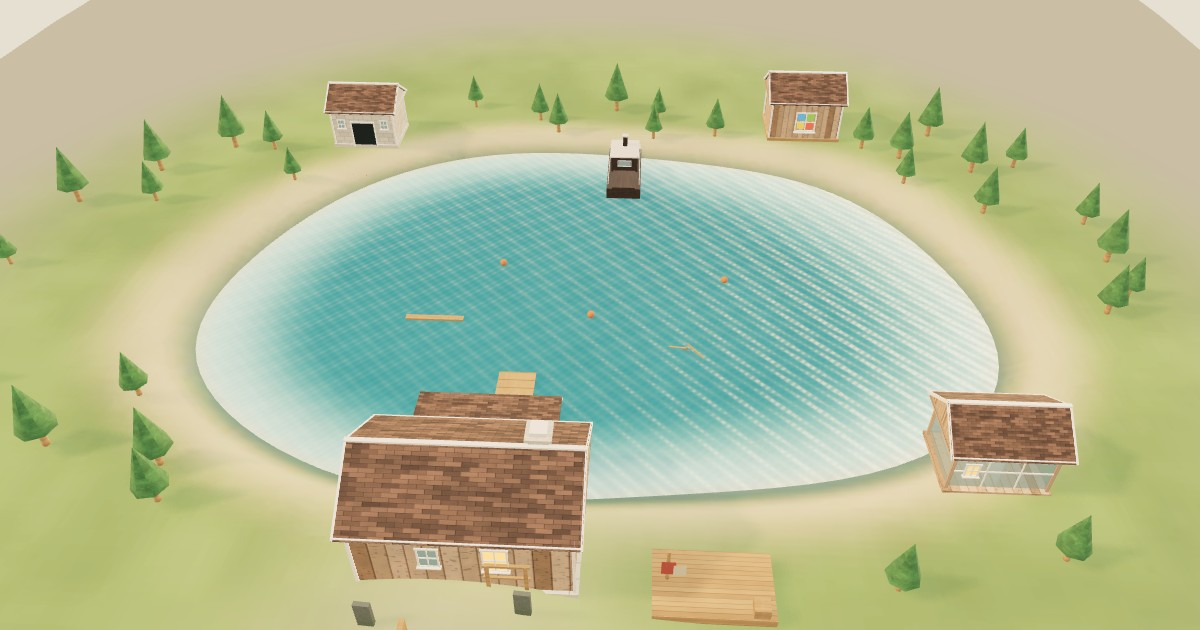
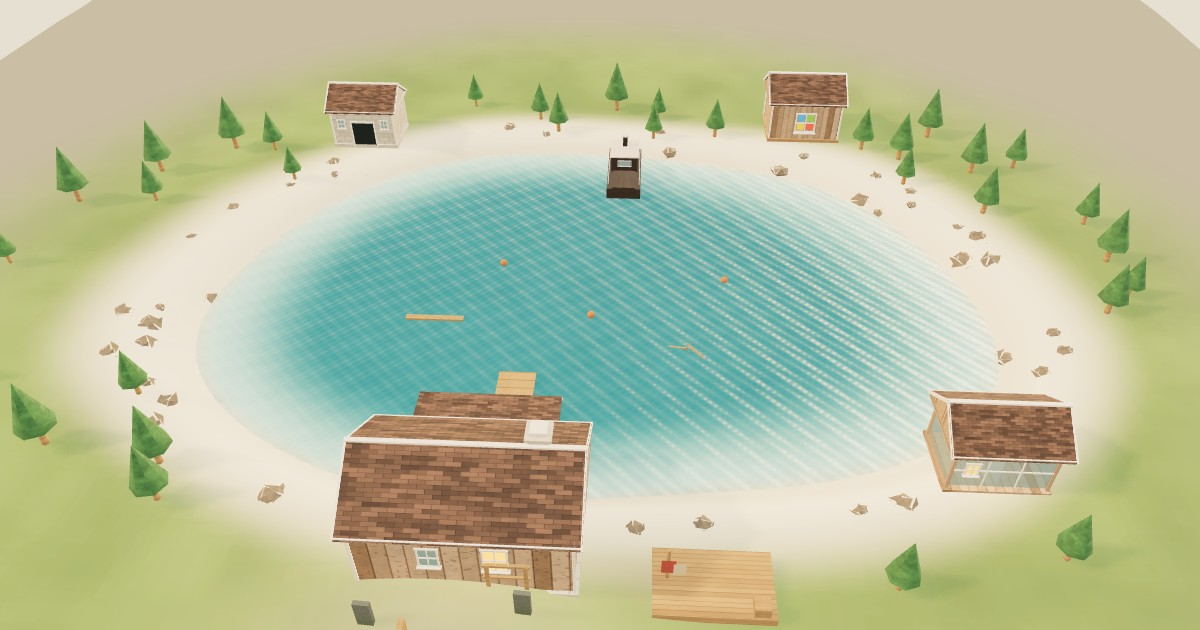
Roll the shore, sand the waterline, and soften the paths.
Keep the buildings where they are. Add a low roll to the ground, a sand band into the lake, clustered rocks along that edge, and a second gravel ribbon from the house to the stage.

Changed region(s): [[0.0308, 0.0905, 0.9558, 0.9349], [0.555, 0.9651, 0.6475, 0.9952]]

diff --git a/src/scene/shore.ts b/src/scene/shore.ts
@@ -2,8 +2,7 @@ import * as THREE from 'three'
 import type { Atlas } from './assets'
 import { surfaceMaterial } from './assets'
 import type { Disposal } from './disposal'
-import { fadeAtRim } from './edgeFade'
-import { lakeRadius, terrainHeight } from './ground'
+import { FOG, lakeRadius, smoothstep, terrainHeight } from './ground'
 import { distanceToPath } from './paths'
 
 const CLEARINGS: Array<[number, number, number]> = [
@@ -22,15 +21,76 @@ export function buildShore(parent: THREE.Object3D, disposal: Disposal, atlas: At
   for (let i = 0; i < position.count; i++) {
     position.setY(i, terrainHeight(position.getX(i), position.getZ(i)))
   }
+  const splat = new Float32Array(position.count * 3)
+  for (let i = 0; i < position.count; i++) {
+    const x = position.getX(i)
+    const z = position.getZ(i)
+    const radius = lakeRadius(x, z)
+    const sand = smoothstep(0.86, 0.98, radius) * (1 - smoothstep(1.1, 1.36, radius))
+    const dirt = smoothstep(1.35, 0.15, distanceToPath(x, z)) * (1 - sand)
+    splat[i * 3] = sand
+    splat[i * 3 + 1] = dirt
+  }
+  geometry.setAttribute('color', new THREE.BufferAttribute(splat, 3))
   geometry.computeVertexNormals()
 
   const material = surfaceMaterial(disposal, atlas.terrain, { roughness: 1, metalness: 0.02 })
-  fadeAtRim(material)
+  shadeGround(material)
   const mesh = new THREE.Mesh(geometry, material)
   mesh.receiveShadow = true
   parent.add(mesh)
   addPines(parent, disposal, atlas)
+  addRocks(parent, disposal, atlas)
   return mesh
+}
+
+const fogColor = new THREE.Color(FOG)
+
+function shadeGround(material: THREE.MeshStandardMaterial) {
+  material.onBeforeCompile = (shader) => {
+    shader.uniforms.uRimColor = { value: fogColor }
+    shader.uniforms.uRimStart = { value: 22 }
+    shader.uniforms.uRimEnd = { value: 33 }
+    shader.vertexShader = shader.vertexShader
+      .replace(
+        '#include <common>',
+        `#include <common>
+         attribute vec3 color;
+         varying vec3 vSplat;
+         varying vec3 vRimWorld;`,
+      )
+      .replace(
+        '#include <worldpos_vertex>',
+        `#include <worldpos_vertex>
+         vSplat = color;
+         vRimWorld = (modelMatrix * vec4(transformed, 1.0)).xyz;`,
+      )
+    shader.fragmentShader = shader.fragmentShader
+      .replace(
+        '#include <common>',
+        `#include <common>
+         varying vec3 vSplat;
+         varying vec3 vRimWorld;
+         uniform vec3 uRimColor;
+         uniform float uRimStart;
+         uniform float uRimEnd;`,
+      )
+      .replace(
+        '#include <color_fragment>',
+        `#include <color_fragment>
+         vec3 sandColor = vec3(0.92, 0.84, 0.64);
+         vec3 dirtColor = vec3(0.48, 0.38, 0.26);
+         diffuseColor.rgb = mix(diffuseColor.rgb, sandColor, vSplat.r * 0.94);
+         diffuseColor.rgb = mix(diffuseColor.rgb, dirtColor, vSplat.g * 0.55);`,
+      )
+      .replace(
+        '#include <fog_fragment>',
+        `float rim = smoothstep(uRimStart, uRimEnd, length(vRimWorld.xz));
+         gl_FragColor.rgb = mix(gl_FragColor.rgb, uRimColor, rim);
+         #include <fog_fragment>`,
+      )
+  }
+  material.customProgramCacheKey = () => 'ground-splat-rim'
 }
 
 function addPines(parent: THREE.Object3D, disposal: Disposal, atlas: Atlas) {
@@ -74,6 +134,82 @@ function addPines(parent: THREE.Object3D, disposal: Disposal, atlas: Atlas) {
     crowns.setMatrixAt(index, dummy.matrix)
   })
   parent.add(trunks, crowns)
+}
+
+const ROCK_KEEP: Array<[number, number, number]> = [
+  [-2.4, 13.2, 2.4],
+  [-2.2, 8.4, 1.8],
+  [4.8, 14.6, 2.2],
+  [14.4, 9.1, 2.6],
+  [-12.6, -13.4, 2.4],
+  [-12.6, -11.2, 1.5],
+  [1.5, -11.6, 2.2],
+  [11.2, -15.4, 2.6],
+  [-0.6, 16.2, 1.3],
+]
+
+function addRocks(parent: THREE.Object3D, disposal: Disposal, atlas: Atlas) {
+  const rand = mulberry32(91)
+  const spots: Array<{ x: number; z: number; scale: number; yaw: number; variant: number }> = []
+  let guard = 0
+  while (spots.length < 42 && guard < 7000) {
+    guard += 1
+    const x = (rand() * 2 - 1) * 22
+    const z = (rand() * 2 - 1) * 20
+    const radius = lakeRadius(x, z)
+    if (radius < 1.0 || radius > 1.18) continue
+    const cluster = Math.sin(x * 0.85 + 1.7) * Math.cos(z * 0.73 + 0.4)
+    if (cluster < 0.15) continue
+    if (ROCK_KEEP.some(([cx, cz, reach]) => Math.hypot(x - cx, z - cz) < reach)) continue
+    if (distanceToPath(x, z) < 1.15) continue
+    if (spots.some((spot) => Math.hypot(spot.x - x, spot.z - z) < 1.15)) continue
+    spots.push({
+      x,
+      z,
+      scale: 0.55 + rand() * 0.7,
+      yaw: rand() * Math.PI * 2,
+      variant: Math.floor(rand() * 3),
+    })
+  }
+
+  const stone = surfaceMaterial(disposal, atlas.limestone, {
+    color: '#a89e90',
+    roughness: 0.92,
+  })
+  const geometries = [0, 1, 2].map((variant) => rockGeometry(disposal, 40 + variant))
+  const dummy = new THREE.Object3D()
+  geometries.forEach((geometry, variant) => {
+    const group = spots.filter((spot) => spot.variant === variant)
+    if (group.length === 0) return
+    const mesh = new THREE.InstancedMesh(geometry, stone, group.length)
+    mesh.castShadow = true
+    mesh.receiveShadow = true
+    group.forEach((spot, index) => {
+      const y = terrainHeight(spot.x, spot.z) - spot.scale * 0.08
+      dummy.position.set(spot.x, y, spot.z)
+      dummy.rotation.set(rand() * 0.4, spot.yaw, rand() * 0.3)
+      dummy.scale.set(spot.scale, spot.scale * (0.55 + rand() * 0.35), spot.scale * (0.8 + rand() * 0.35))
+      dummy.updateMatrix()
+      mesh.setMatrixAt(index, dummy.matrix)
+    })
+    parent.add(mesh)
+  })
+}
+
+function rockGeometry(disposal: Disposal, seed: number) {
+  const geometry = disposal.geo(new THREE.IcosahedronGeometry(0.45, 0))
+  const position = geometry.attributes.position
+  const rand = mulberry32(seed)
+  for (let i = 0; i < position.count; i++) {
+    position.setXYZ(
+      i,
+      position.getX(i) * (0.7 + rand() * 0.55),
+      position.getY(i) * (0.45 + rand() * 0.35),
+      position.getZ(i) * (0.75 + rand() * 0.45),
+    )
+  }
+  geometry.computeVertexNormals()
+  return geometry
 }
 
 function mulberry32(seed: number) {

diff --git a/src/scene/paths.ts b/src/scene/paths.ts
@@ -4,19 +4,29 @@ import { surfaceMaterial } from './assets'
 import type { Disposal } from './disposal'
 import { terrainHeight } from './ground'
 
-const WAYPOINTS: Array<[number, number]> = [
-  [0.4, 12.2],
-  [3.6, 10.6],
-  [7.4, 9.2],
-  [11.2, 8.4],
-  [12.2, 9.0],
-  [14.2, 9.2],
+const ROUTES: Array<Array<[number, number]>> = [
+  [
+    [0.4, 12.2],
+    [3.6, 10.6],
+    [7.4, 9.2],
+    [11.2, 8.4],
+    [12.2, 9.0],
+    [14.2, 9.2],
+  ],
+  [
+    [-1.8, 13.05],
+    [0.6, 13.5],
+    [2.8, 14.15],
+    [4.7, 14.55],
+  ],
 ]
 
 export function distanceToPath(x: number, z: number) {
   let best = Infinity
-  for (let i = 0; i < WAYPOINTS.length - 1; i++) {
-    best = Math.min(best, segmentDistance(x, z, WAYPOINTS[i], WAYPOINTS[i + 1]))
+  for (const route of ROUTES) {
+    for (let i = 0; i < route.length - 1; i++) {
+      best = Math.min(best, segmentDistance(x, z, route[i], route[i + 1]))
+    }
   }
   return best
 }
@@ -32,10 +42,37 @@ function segmentDistance(x: number, z: number, a: [number, number], b: [number, 
 }
 
 export function buildPath(parent: THREE.Object3D, disposal: Disposal, atlas: Atlas) {
-  const points = WAYPOINTS.map(([x, z]) => new THREE.Vector3(x, terrainHeight(x, z) + 0.045, z))
+  const material = surfaceMaterial(disposal, atlas.gravel, {
+    roughness: 1,
+    metalness: 0.02,
+    normalScale: new THREE.Vector2(1.35, 1.35),
+  })
+  material.transparent = true
+  material.polygonOffset = true
+  material.polygonOffsetFactor = -1
+  material.polygonOffsetUnits = -1
+  material.onBeforeCompile = (shader) => {
+    shader.fragmentShader = shader.fragmentShader.replace(
+      '#include <alphamap_fragment>',
+      `#include <alphamap_fragment>
+       float across = abs(vMapUv.x - 0.5) * 2.0;
+       diffuseColor.a *= 1.0 - smoothstep(0.62, 1.0, across);`,
+    )
+  }
+  material.customProgramCacheKey = () => 'path-edge'
+
+  for (const route of ROUTES) {
+    const mesh = new THREE.Mesh(ribbon(disposal, route, route === ROUTES[0] ? 0.92 : 0.7), material)
+    mesh.receiveShadow = true
+    mesh.castShadow = false
+    parent.add(mesh)
+  }
+}
+
+function ribbon(disposal: Disposal, route: Array<[number, number]>, width: number) {
+  const points = route.map(([x, z]) => new THREE.Vector3(x, terrainHeight(x, z) + 0.045, z))
   const curve = new THREE.CatmullRomCurve3(points, false, 'centripetal', 0.5)
   const divisions = 48
-  const width = 0.92
   const positions: number[] = []
   const uvs: number[] = []
   const indices: number[] = []
@@ -56,7 +93,7 @@ export function buildPath(parent: THREE.Object3D, disposal: Disposal, atlas: Atl
     left.y = y
     right.y = y
     positions.push(left.x, left.y, left.z, right.x, right.y, right.z)
-    uvs.push(0, t * 10, 1, t * 10)
+    uvs.push(0, t * 8, 1, t * 8)
   }
 
   for (let i = 0; i < divisions; i++) {
@@ -69,14 +106,5 @@ export function buildPath(parent: THREE.Object3D, disposal: Disposal, atlas: Atl
   geometry.setAttribute('uv', new THREE.Float32BufferAttribute(uvs, 2))
   geometry.setIndex(indices)
   geometry.computeVertexNormals()
-
-  const material = surfaceMaterial(disposal, atlas.gravel, { roughness: 1, metalness: 0.02 })
-  material.polygonOffset = true
-  material.polygonOffsetFactor = -1
-  material.polygonOffsetUnits = -1
-  const mesh = new THREE.Mesh(geometry, material)
-  mesh.receiveShadow = true
-  mesh.castShadow = false
-  parent.add(mesh)
-  return mesh
+  return geometry
 }

diff --git a/src/scene/ground.ts b/src/scene/ground.ts
@@ -46,6 +46,10 @@ export function terrainHeight(x: number, z: number) {
   let height = -0.62 + land * 1.28
   height += smoothstep(1.08, 1.75, radius) * 0.2
   height += (noise(x * 0.18, z * 0.18) - 0.45) * 0.2 * land
+  height += (noise(x * 0.055 + 4.2, z * 0.055) - 0.5) * 0.36 * land
+  height += (noise(x * 0.14 + 1.3, z * 0.14) - 0.5) * 0.07 * land
+  const shoreBand = smoothstep(0.98, 1.04, radius) * (1 - smoothstep(1.08, 1.22, radius))
+  height += (noise(x * 0.72, z * 0.72) - 0.42) * 0.07 * shoreBand
 
   const lawnX = x + 2.2
   const lawnZ = z - 13.4
